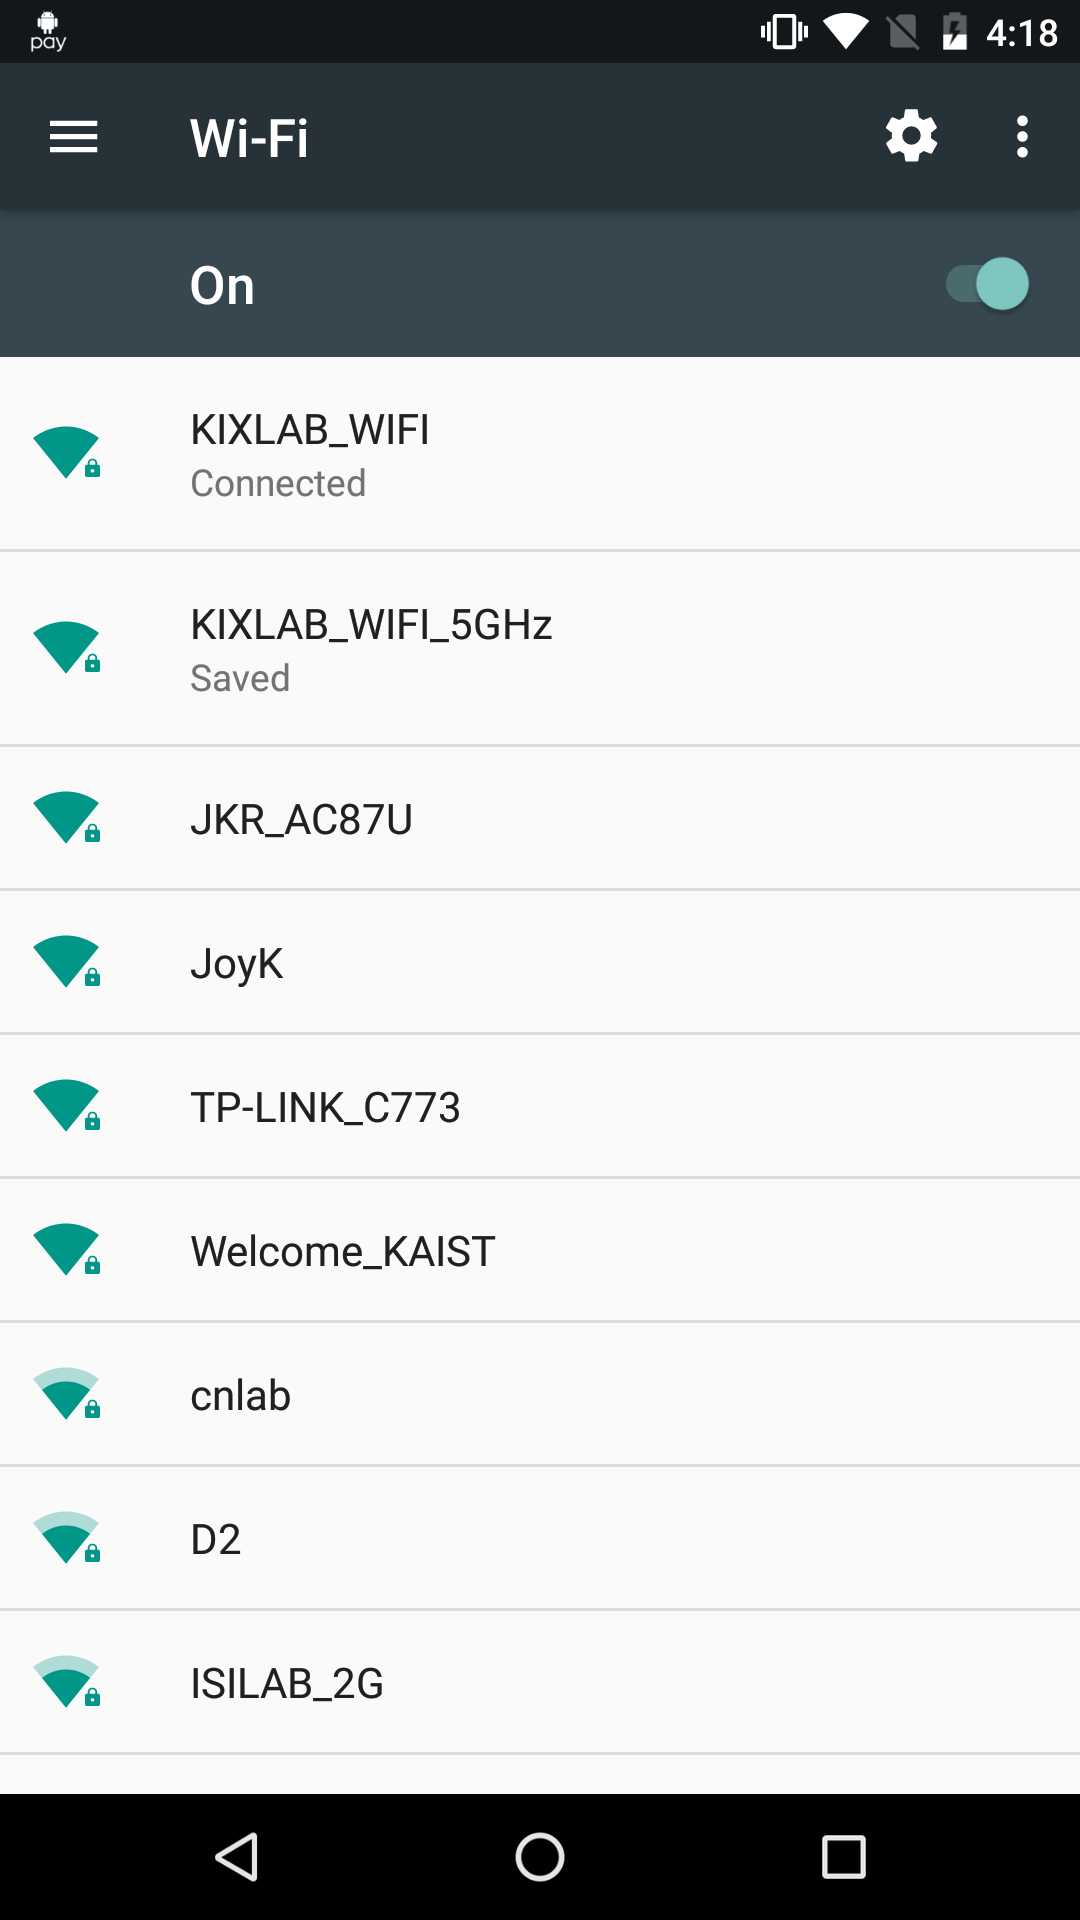
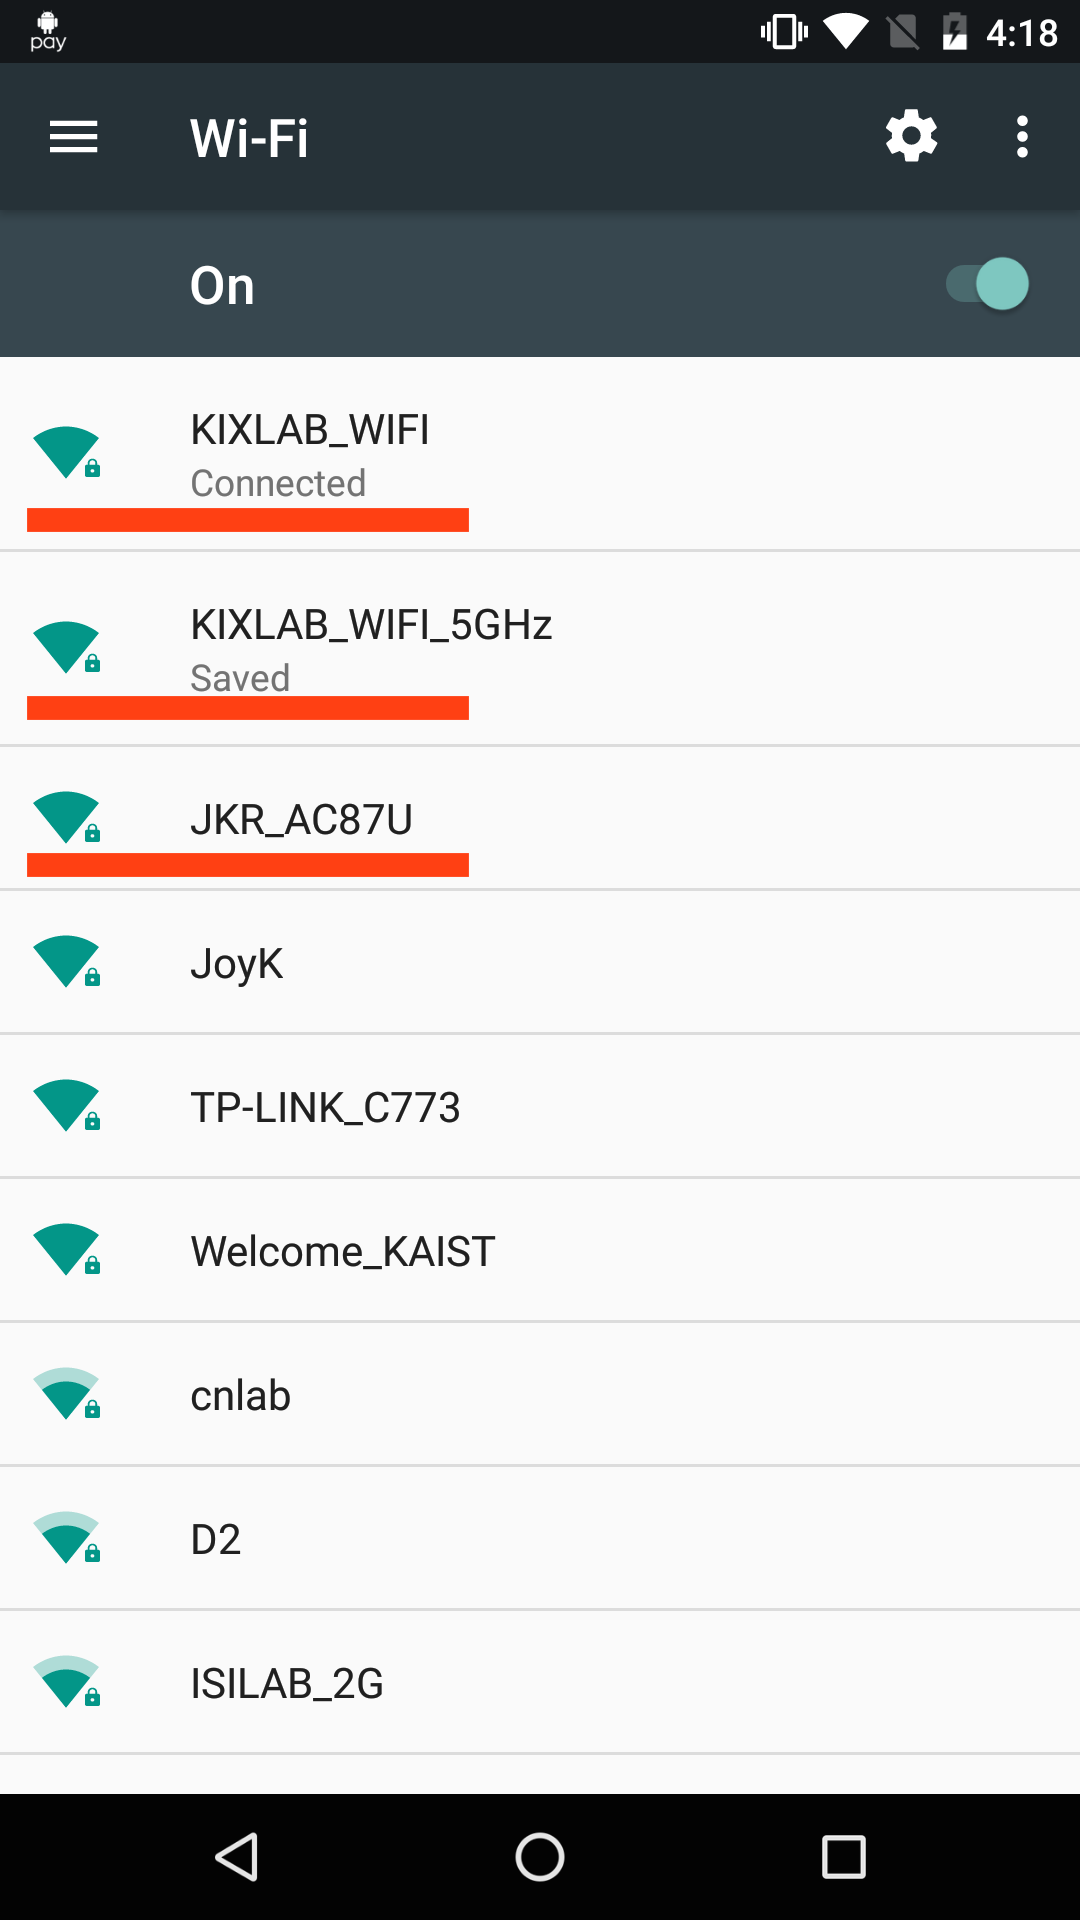
Add instruction for looking for Wi-Fi

Changed region(s): [[0.0306, 0.4375, 0.4278, 0.4688], [0.0306, 0.3438, 0.4278, 0.375], [0.0306, 0.25, 0.4278, 0.2812]]

diff --git a/collect.html b/collect.html
@@ -232,7 +232,7 @@
 
                 <div class="post">
                     <!--기숙사 방번호-->
-                    <h4>기숙사 방 번호</h4>
+                    <h4>방 번호</h4>
                     <h6>현재 몇 호에서 인터넷을 사용하고 있는지 적어주세요</h6>
                     <input type="number" onkeypress='return event.charCode >= 48 && event.charCode <= 57' class="form-control" id="roomNumber" placeholder="기숙사 방 번호" required />
                     <h6>* 와이파이 채널 중첩은 기숙사 방에 따라 일어나는 현상일 수 있습니다. 이 정보는 다른 사용자에게 공개되지 않습니다</h6>
@@ -242,10 +242,10 @@
                     <h4>Wi-Fi 공유기
                         <div class="tooltipContainer">
                             <span class="glyphicon glyphicon-question-sign" aria-hidden="true"></span>
-                            <span class="tooltiptext"><img src="https://www.w3schools.com/images/w3schools_green.jpg"/>찾는 방법</span>
+                            <span class="tooltiptext"><img src="https://www.w3schools.com/images/w3schools_green.jpg"/>신호가 강한 순으로 세 개까지 적어주세요.</span>
                         </div>
                     </h4>
-                    <h6>잡히는 Wi-Fi 공유기 이름을 적어주세요.(예: Welcome_KAIST)</h6>
+                    <h6>잡히는 Wi-Fi 공유기 이름을 적어주세요.</h6>
                     <div class="input-group">
                         <input id="apRead" type="text" class="form-control" placeholder="공유기 이름">
                         <span class="input-group-btn">
